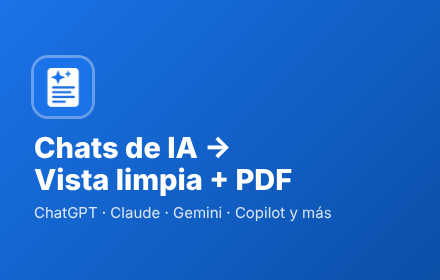
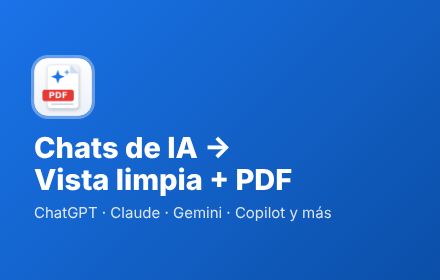
Icono nuevo (hoja + PDF)
Claude-Session: https://claude.ai/code/session_01NeU9qbuaRk8ecVPg91meDH

Changed region(s): [[0.0591, 0.2, 0.2068, 0.4286]]

diff --git a/store/icon-options/make.py b/store/icon-options/make.py
@@ -1,0 +1,86 @@
+from PIL import Image, ImageDraw, ImageFont, ImageFilter
+S=1024
+BLUE=(26,115,232); DBLUE=(13,71,161); WHITE=(255,255,255); RED=(229,57,53)
+def font(sz):
+    for p in ["/usr/share/fonts/truetype/dejavu/DejaVuSans-Bold.ttf","/usr/share/fonts/truetype/liberation/LiberationSans-Bold.ttf"]:
+        try: return ImageFont.truetype(p,sz)
+        except: pass
+    return ImageFont.load_default()
+def star(d,cx,cy,r,fill):
+    k=r*0.26; d.polygon([(cx,cy-r),(cx+k,cy-k),(cx+r,cy),(cx+k,cy+k),(cx,cy+r),(cx-k,cy+k),(cx-r,cy),(cx-k,cy-k)],fill=fill)
+def grad(c1,c2):
+    g=Image.new('RGBA',(S,S)); d=ImageDraw.Draw(g)
+    for y in range(S):
+        t=y/S; d.line([(0,y),(S,y)],fill=tuple(int(c1[i]+(c2[i]-c1[i])*t) for i in range(3))+(255,))
+    return g
+def rounded_bg(c1,c2):
+    m=Image.new('L',(S,S),0); ImageDraw.Draw(m).rounded_rectangle([0,0,S-1,S-1],radius=230,fill=255)
+    out=Image.new('RGBA',(S,S),(0,0,0,0)); out.paste(grad(c1,c2),(0,0),m); return out
+
+# A: burbuja de chat que es una hoja con esquina doblada + estrella
+def A():
+    im=rounded_bg((66,133,244),(21,87,200)); d=ImageDraw.Draw(im)
+    # sombra
+    sh=Image.new('RGBA',(S,S),(0,0,0,0)); sd=ImageDraw.Draw(sh)
+    sd.rounded_rectangle([210,190,830,760],radius=90,fill=(0,0,0,70)); sd.polygon([(300,740),(300,900),(460,740)],fill=(0,0,0,70))
+    sh=sh.filter(ImageFilter.GaussianBlur(24)); im.alpha_composite(sh,(0,18))
+    d=ImageDraw.Draw(im)
+    d.rounded_rectangle([200,170,820,740],radius=90,fill=WHITE)
+    d.polygon([(290,720),(290,880),(450,720)],fill=WHITE)
+    # esquina doblada
+    d.polygon([(700,170),(820,170),(820,290)],fill=(21,87,200)); d.polygon([(700,170),(700,290),(820,290)],fill=(200,220,250))
+    # líneas
+    for i,w in enumerate([400,330,400,240]):
+        y=440+i*70; d.rounded_rectangle([290,y,290+w,y+34],radius=17,fill=(26,115,232,255) if i==0 else (190,210,240))
+    star(d,370,320,80,BLUE); star(d,480,270,38,(66,133,244))
+    return im
+
+# B: impresora con burbuja saliendo
+def B():
+    im=rounded_bg((52,168,83),(24,128,56)) if False else rounded_bg((40,48,64),(18,22,32)); d=ImageDraw.Draw(im)
+    # hoja que sale (arriba) como burbuja
+    d.rounded_rectangle([290,130,734,470],radius=60,fill=WHITE)
+    d.polygon([(360,450),(360,560),(470,450)],fill=WHITE)
+    star(d,420,260,62,BLUE); star(d,510,215,30,(120,170,250))
+    for i,w in enumerate([250,190]): d.rounded_rectangle([370,330+i*55,370+w,330+i*55+28],radius=14,fill=(180,200,235))
+    # cuerpo impresora
+    d.rounded_rectangle([170,500,854,800],radius=70,fill=BLUE)
+    d.rounded_rectangle([250,560,774,610],radius=25,fill=(13,60,140))
+    d.ellipse([720,660,770,710],fill=(140,230,160))
+    # hoja impresa abajo
+    d.rounded_rectangle([300,700,724,900],radius=30,fill=WHITE)
+    for i in range(2): d.rounded_rectangle([350,750+i*55,650-i*80,778+i*55],radius=14,fill=(200,210,225))
+    return im
+
+# C: hoja con esquina, estrella IA y banda PDF roja
+def C():
+    im=rounded_bg((255,255,255),(236,241,250)); d=ImageDraw.Draw(im)
+    d.rounded_rectangle([0,0,S-1,S-1],radius=230,outline=(220,226,236),width=10)
+    sh=Image.new('RGBA',(S,S),(0,0,0,0)); ImageDraw.Draw(sh).rounded_rectangle([240,130,800,900],radius=60,fill=(26,60,120,60))
+    im.alpha_composite(sh.filter(ImageFilter.GaussianBlur(26)),(0,16)); d=ImageDraw.Draw(im)
+    d.rounded_rectangle([230,120,790,890],radius=60,fill=WHITE,outline=(210,218,230),width=8)
+    d.polygon([(640,120),(790,120),(790,270)],fill=(236,241,250)); d.polygon([(640,120),(640,270),(790,270)],fill=(205,220,245))
+    star(d,420,330,120,BLUE); star(d,580,250,55,(100,160,245))
+    # banda PDF
+    d.rounded_rectangle([150,560,700,760],radius=40,fill=RED)
+    f=font(150); tw=d.textlength("PDF",font=f); d.text((425-tw/2,568),"PDF",font=f,fill=WHITE)
+    for i,w in enumerate([400,300]): d.rounded_rectangle([300,800-0+i*0,300+w,800+30],radius=15,fill=(210,218,230)) if i==0 else None
+    return im
+
+opts={'A':A(),'B':B(),'C':C()}
+for k,im in opts.items(): im.save(f'option-{k}-1024.png')
+
+# hoja comparativa
+W=1500; H=620; sheet=Image.new('RGB',(W,H),(250,250,252)); sd=ImageDraw.Draw(sheet)
+f=font(40); fs=font(22)
+for i,(k,im) in enumerate(opts.items()):
+    x=40+i*490
+    sd.text((x,20),f"Opción {k}",font=f,fill=(30,30,30))
+    big=im.resize((300,300),Image.LANCZOS); sheet.paste(big,(x,80),big)
+    # barra clara y oscura con 32 y 16 px (tamaño real)
+    for j,(bg,label) in enumerate([((241,243,244),'Barra clara'),((53,54,58),'Barra oscura')]):
+        y=410+j*95; sd.rounded_rectangle([x,y,x+420,y+80],radius=14,fill=bg)
+        for size,ox in [(48,20),(32,100),(16,160)]:
+            s=im.resize((size,size),Image.LANCZOS); sheet.paste(s,(x+ox,y+40-size//2),s)
+        sd.text((x+200,y+28),label+" · 48/32/16",font=fs,fill=(120,120,120) if j==0 else (200,200,200))
+sheet.save('comparativa.png')

diff --git a/store/icon-options/final.py b/store/icon-options/final.py
@@ -1,0 +1,26 @@
+from PIL import Image, ImageDraw, ImageFilter
+exec(open('make.py').read().split("opts={")[0])  # reutiliza funciones (S, C, font, star…)
+big=C()
+out='/home/claude/ai-print/extension/icons/'
+for s in (48,128): big.resize((s,s),Image.LANCZOS).save(out+f'icon-{s}.png')
+# versión simplificada para 16 y 32: hoja + estrella + banda roja sin texto
+def simple():
+    im=Image.new('RGBA',(S,S),(0,0,0,0)); d=ImageDraw.Draw(im)
+    d.rounded_rectangle([0,0,S-1,S-1],radius=200,fill=(255,255,255),outline=(200,208,220),width=36)
+    d.rounded_rectangle([210,90,814,934],radius=70,fill=(255,255,255),outline=(150,165,190),width=48)
+    d.polygon([(640,90),(814,90),(814,264)],fill=(205,220,245))
+    star(d,512,340,190,BLUE)
+    d.rounded_rectangle([130,600,894,820],radius=60,fill=RED)
+    return im
+sm=simple()
+sm.resize((32,32),Image.LANCZOS).save(out+'icon-32.png')
+sm.resize((16,16),Image.LANCZOS).save(out+'icon-16.png')
+# vista previa
+prev=Image.new('RGB',(420,200),(241,243,244)); pd=ImageDraw.Draw(prev); pd.rectangle([0,100,420,200],fill=(53,54,58))
+for row in (0,1):
+    x=20
+    for s in (128,48,32,16):
+        ic=Image.open(out+f'icon-{s}.png').convert('RGBA')
+        if s==128: ic=ic.resize((80,80),Image.LANCZOS)
+        prev.paste(ic,(x,row*100+50-ic.height//2),ic); x+=ic.width+30
+prev.save('preview-final.png')
